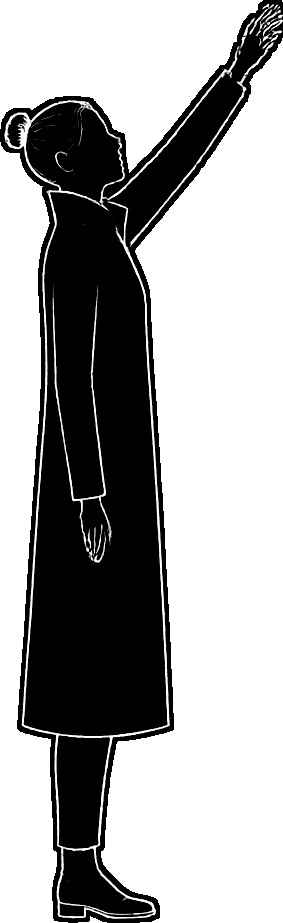
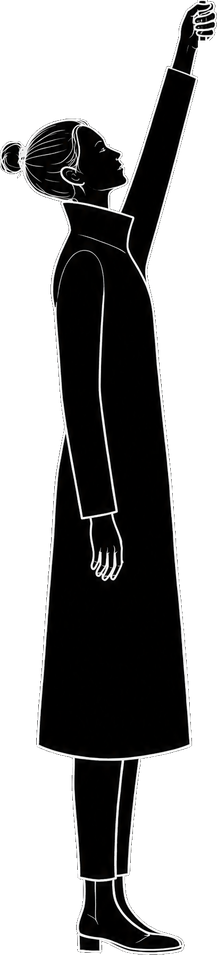
Intro: new reaching drawing with her hand closed around the umbrella handle
Claude-Session: https://claude.ai/code/session_01HVweuKuKSvnRT3N2xFaE8X

diff --git a/src/components/intro/IntroFilm.jsx b/src/components/intro/IntroFilm.jsx
@@ -290,15 +290,6 @@ export default function IntroFilm({ onDone }) {
                   label={{ [ART.stand]: "standing, empty-handed", [ART.reach]: "reaching up" }[n]} />
               ))}
             </g>
-            {/* the handle's shaft and hook drawn again over her hand, so her fingers wrap behind it (a grip) */}
-            <defs>
-              <clipPath id="umb-grip"><rect x={HAND.x - 30} y={HAND.y - 70} width={36} height={78} /></clipPath>
-            </defs>
-            <g className="umbrella umbrella--grip" clipPath="url(#umb-grip)">
-              {[ART.umbClosed, ART.umbHalf, ART.umbOpen].filter(has).map((n) => (
-                <image key={n} data-pose={n} href={src(n + "-grip")} x={HAND.x - POSES[n].cx * POSES[n].w * UK} y={HAND.y - POSES[n].h * UK} width={POSES[n].w * UK} height={POSES[n].h * UK} />
-              ))}
-            </g>
           </g>
 
           {/* 2 the ribs that become pathways */}
